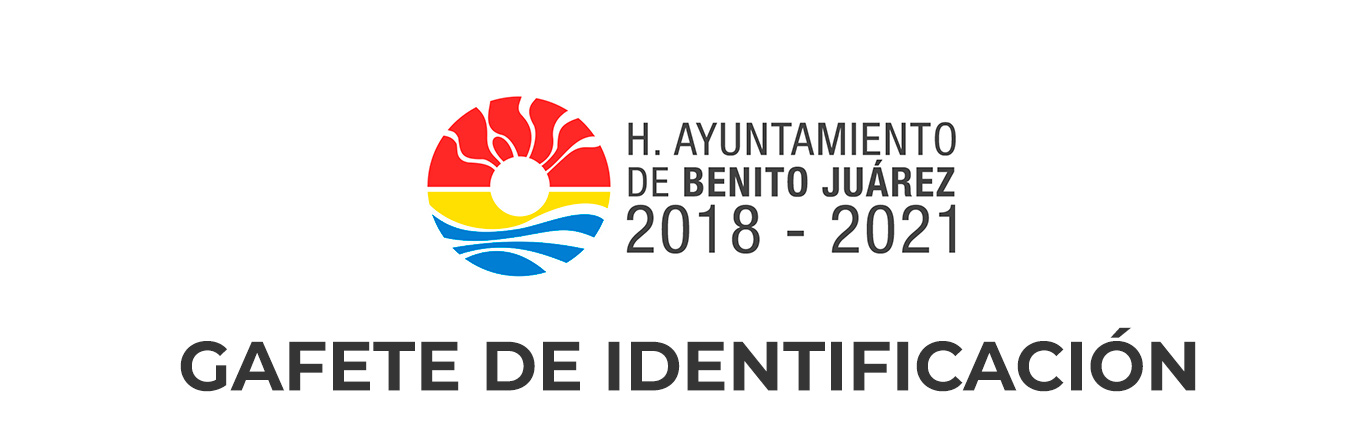
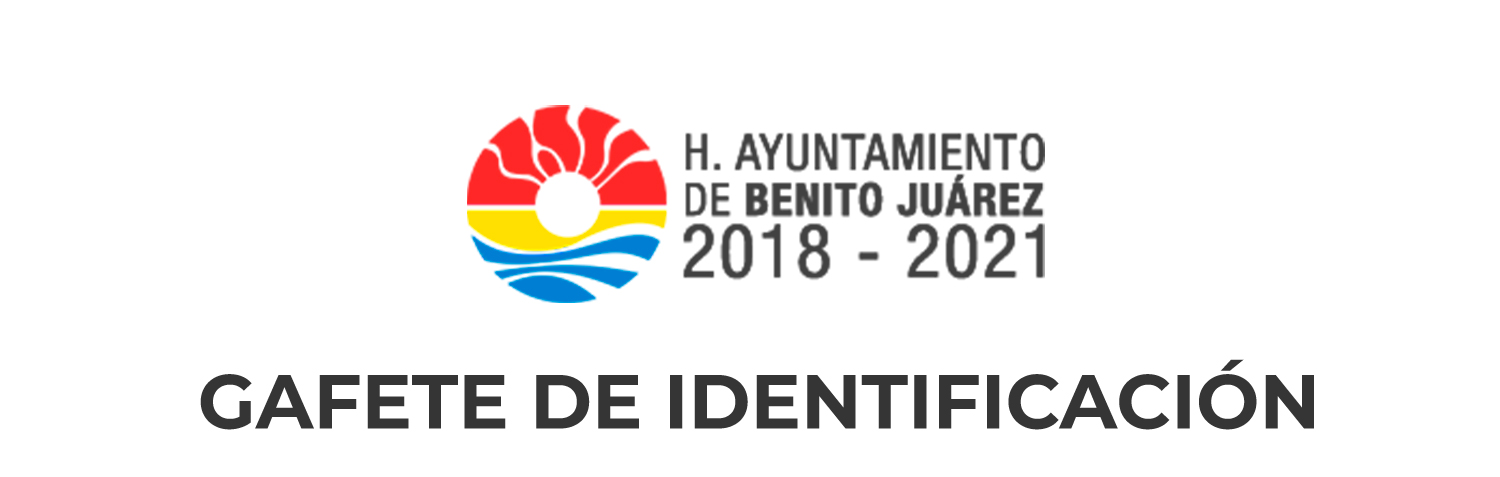
Gafete Listo

Changed region(s): [[0.3072, 0.2162, 0.7067, 0.6793], [0.1229, 0.7411, 0.891, 0.9264]]

diff --git a/public/css/pdf.css b/public/css/pdf.css
@@ -1,0 +1,32 @@
+html, body{
+	margin: 0 !important;
+}
+
+body{
+	background-image: url("../img/pattern.png");
+}
+
+.qr{
+	width: 100px;
+}
+
+.qr-vigencia{
+	width: 100%;
+}
+
+.text-left{
+	text-align: left !important;
+}
+
+.em-8{
+	font-size: .8em;
+
+}
+
+.em-6{
+	font-size: .6em
+}
+
+.footer-img{
+	margin-top: 354px;
+}

diff --git a/resources/views/gafete/gafete.blade.php b/resources/views/gafete/gafete.blade.php
@@ -4,41 +4,13 @@
 	<meta charset="UTF-8">
 	<title>Document</title>
 	<link rel="stylesheet" href="{{ asset('vendor/bootstrap/css/bootstrap.css') }}" />
-	<style>
-		*{
-			margin:0;
-			padding:0
-		}
-
-		.qr{
-			width: 100px;
-		}
-
-		.qr-vigencia{
-			width: 100%;
-		}
-
-		.text-left{
-			text-align: left !important;
-		}
-
-		.em-8{
-			font-size: .8em;
-			
-		}
-
-		.em-6{
-			font-size: .6em
-		}
-
-	</style>
+	<link rel="stylesheet" href="{{ asset('css/pdf.css') }}" />
+	
 </head>
 <body>
-
+	<img src="{{ asset('img/header-gafete.png') }}" width="100%">
 	<div class="container text-center">
 
-		
-		<img src="{{ asset('img/header-gafete.jpg') }}" width="100%" class="mb-4">
 
 		<div class="img-container">
 			<img src="{{ asset('img/inspectores/'. $gafete->imageninspector) }}" alt="" class="img-inspector mt-3 ">
@@ -57,17 +29,15 @@
 					<p class="em-6">Verifica con tu celular</p>
 				</td>
 				<td>
+					@if(is_object($gafete->inspector))
+						<h6 class="text-left">CLAVE: <b>{{ $gafete->inspector->clave }}</b></h6>
+					@endif
 					<h6 class="em-8 text-left">Expedido: {{ date('j/m/Y', strtotime($gafete->created_at)) }} </h6>
 					<h6 class="em-8 text-left">Vigencia: {{ date('j/m/Y', strtotime($gafete->vigencia)) }} </h6>
 				</td>
 			</tr>
 		</table>
-
-		<img src="{{ asset('img/footer-gafete.jpg') }}" width="100%">
-
-	</div>
-
-	
-	
+	</div>	
+	<img src="{{ asset('img/footer-gafete.jpg') }}" width="100%" class="footer-img">
 </body>
 </html>
